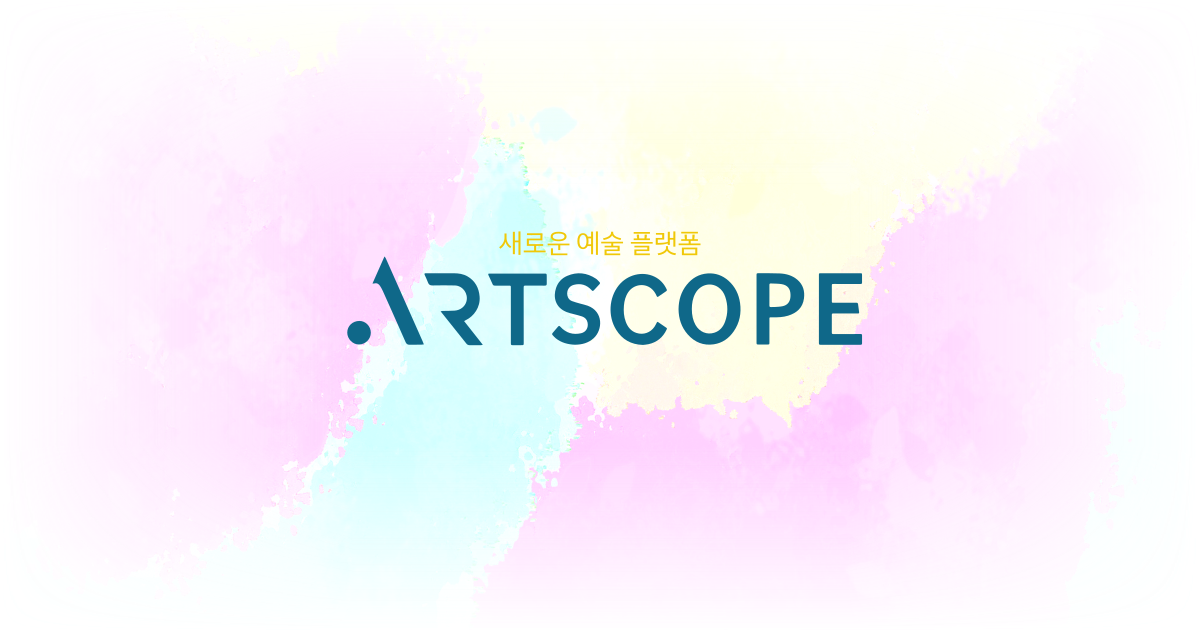
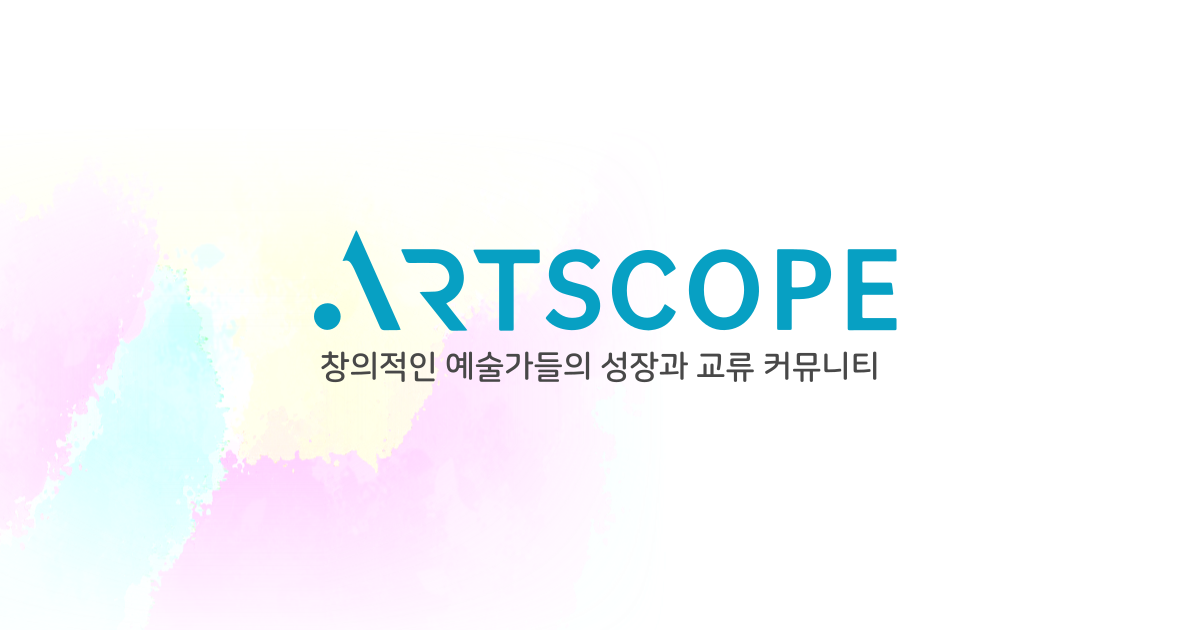
feat: opengraph 변경

diff --git a/src/app/layout.tsx b/src/app/layout.tsx
@@ -29,12 +29,12 @@ const nanum_Myeongjo = Nanum_Myeongjo({
 export const metadata: Metadata = {
   metadataBase: new URL(NEXT_PUBLIC_ROOT_URL + '/'),
   title: {
-    template: '%s | 요즘 예술인 커뮤니티 Artscope',
-    default: 'Artscope | 요즘 예술인 커뮤니티 아트스코프',
+    template: '%s | 창의적인 예술가들의 성장과 교류 커뮤니티 Artscope',
+    default: 'Artscope | 창의적인 예술가들의 성장과 교류 커뮤니티 아트스코프',
   },
   applicationName: 'Artscope',
   description:
-    '예술가와 기획자를 위한 새로운 예술 네트워크 플랫폼 Artscope에서는 Artscope는 다양한 기능을 제공합니다. ' +
+    '창의적인 예술가들의 성장과 교류 커뮤니티 Artscope에서는 다양한 기능을 제공합니다. ' +
     '작품 등록 : 예술가들은 자신의 작품을 등록하고, 작품에 대한 정보와 이미지를 제공할 수 있습니다. ' +
     '예술가 검색 : 사용자는 관심 있는 예술가를 검색하고, 해당 예술가의 작품을 확인할 수 있습니다. ' +
     '소통 기능: 예술가들은 서로 글과 작품에 댓글을 달거나 좋아요를 누를 수 있습니다. ' +
@@ -80,8 +80,16 @@ export const metadata: Metadata = {
     telephone: false,
   },
   openGraph: {
-    title: 'Artscope',
-    description: '예술가와 기획자를 위한 새로운 예술 네트워크 플랫폼',
+    title: 'Artscope | 창의적인 예술가들의 성장과 교류 커뮤니티 아트스코프',
+    description:
+      '예술가들의 성장과 교류를 위해 많은 기능을 제공합니다. ' +
+      '작품 등록 : 예술가들은 자신의 작품을 등록하고, 작품에 대한 정보와 이미지를 제공할 수 있습니다. ' +
+      '예술가 검색 : 사용자는 관심 있는 예술가를 검색하고, 해당 예술가의 작품을 확인할 수 있습니다. ' +
+      '소통 기능: 예술가들은 서로 글과 작품에 댓글을 달거나 좋아요를 누를 수 있습니다. ' +
+      '프로젝트 제안: 기획자는 예술가에게 프로젝트를 제안하고, 예술가는 프로젝트에 참여 여부를 결정할 수 있습니다. ' +
+      '예술 관련 정보 제공: 예술 관련 뉴스, 전시회 정보 등을 제공합니다. ' +
+      'Artscope은 예술가와 기획자들의 소통과 협업을 촉진하여, 새로운 예술 작품을 탄생시키는 데 기여하고자 합니다. ' +
+      '예술에 관심 있는 모든 분들이 Artscope를 통해 새로운 경험을 할 수 있기를 기대합니다.',
     siteName: 'Artscope',
     type: 'website',
     locale: 'ko_KR',

diff --git a/src/app/(feed)/LoginModalButton.tsx b/src/app/(feed)/LoginModalButton.tsx
@@ -62,7 +62,7 @@ export default function LoginModal({
                   loop
                 />
                 <p className='text-xl font-bold'>
-                  요즘 예술인 커뮤니티 Artscope에 가입하세요!
+                  창의적인 예술가들의 성장과 교류 커뮤니티 Artscope!
                 </p>
                 <p>
                   <b className='font-bold text-blue-600'>
